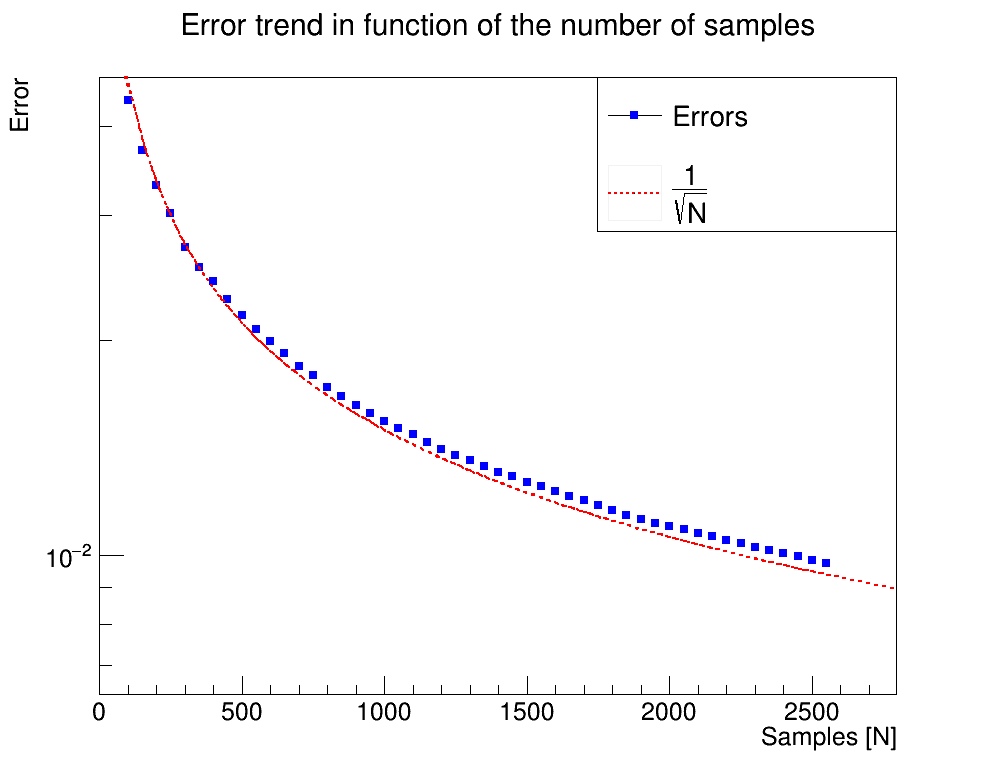
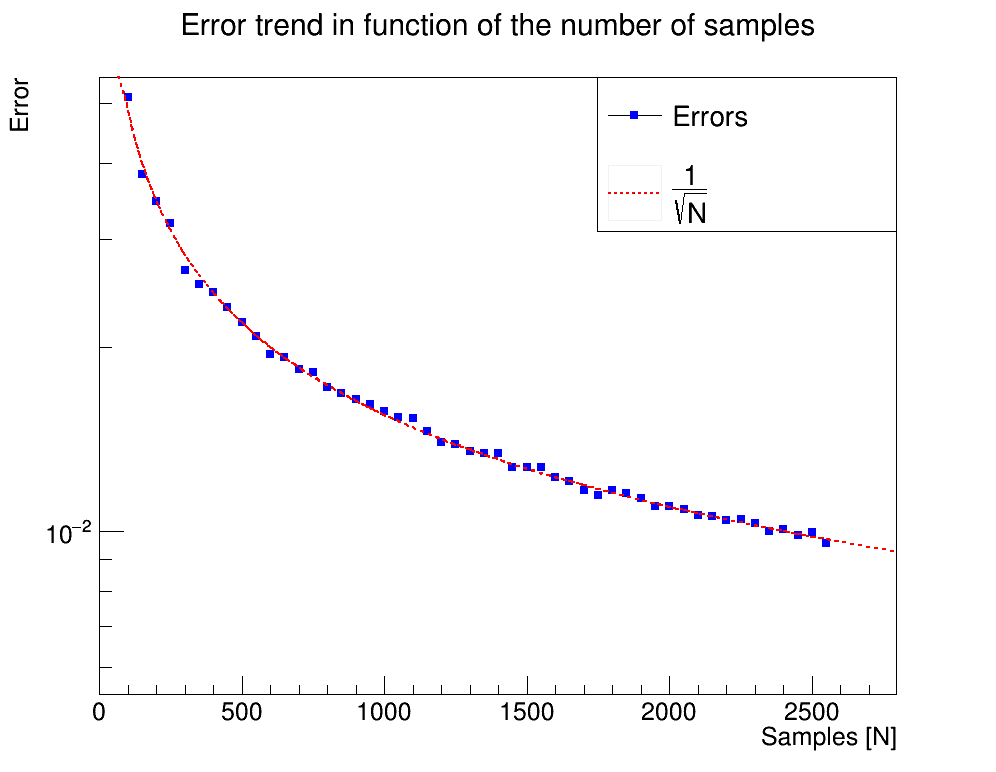
fine

diff --git a/es5/results.cpp b/es5/results.cpp
@@ -1,3 +1,5 @@
+//c++ results.cpp `root-config --libs --glibs --cflags` -o res
+
 #include <iostream>
 #include <cmath>
 #include "TH1F.h"
@@ -9,11 +11,11 @@
 
 int main(){
 
-    std::vector<double> estim = {1.71835, 1.71829913, 1.71828458, 1.71826148};
-    std::vector<double> estim_var = {0.00005, 0.00001013, 0.00000418, 0.00000880};
+    std::vector<double> estim = {1.71820764, 1.71826621, 1.71829322, 1.71828255};
+    std::vector<double> estim_var = {0.00011599, 0.00001030, 0.00000430, 0.00000888};
 
-    std::vector<double> var = {0.24202856, 0.00212058, 0.000531207, 0.00391324};
-    std::vector<double> err_var = {0.002296, 0.00002175, 0.00007748, 0.0005875};
+    std::vector<double> var = {0.24198802, 0.00211949, 0.00053135, 0.00391174};
+    std::vector<double> err_var = {0.00002338, 0.00000022, 0.00000008, 0.00000060};
     std::vector<double> number = {1,2,3,4};
 
     TLine* line = new TLine(1, exp(1)-1, 4, exp(1)-1);
@@ -23,18 +25,18 @@ int main(){
     TGraphErrors* g = new TGraphErrors(4, &number[0], &estim[0], 0, &estim_var[0]);
     g->SetMarkerStyle(21);
     g->SetMarkerColor(4);
-    g->SetTitle("MC estimators for different variance techniques");
+    g->SetTitle("MC estimators for different variance techniques xorshiro128p algorithm");
     g->GetXaxis()->SetTitle("Variance reduction technique");
     g->GetYaxis()->SetTitle("Estimator Value");
 
     TGraphErrors* g_var = new TGraphErrors(4, &number[0], &var[0], 0, &err_var[0]);
     g_var->SetMarkerStyle(21);
     g_var->SetMarkerColor(4);
-    g_var->SetTitle("MC estimator variance for different variance techniques");
+    g_var->SetTitle("MC estimator variance for different variance techniques xorshiro128p algorithm");
     g_var->GetXaxis()->SetTitle("Variance reduction technique");
     g_var->GetYaxis()->SetTitle("Variance Value");
 
-    TLegend* legend = new TLegend(.6, .5, .9, .9);
+    TLegend* legend = new TLegend(.5, .1, .9, .5);
     legend->AddEntry(line, "#int_{0}^{1} e^{x}dx", "l");
     legend->AddEntry(g, "#splitline{1: Crude Mc}{#splitline{2: Stratified}{#splitline{3: Importance (x+1)^{1.5}}{4: Antithetic}}}");
 
@@ -44,12 +46,12 @@ int main(){
     line->Draw("same");
     legend->Draw();
     c->Draw();
-    c->SaveAs("./Graphs/final_est_comp.png");
+    c->SaveAs("./Graphs/final_est_comp_xor.png");
 
     c->SetLogy();
     g_var->Draw("AP");
     c->Draw();
-    c->SaveAs("./Graphs/final_var_comp.png");
+    c->SaveAs("./Graphs/final_var_comp_xor.png");
 
     return 0;
 }

diff --git a/es5/compute_and.cpp b/es5/compute_and.cpp
@@ -1,11 +1,15 @@
+//c++ compute_and.cpp `root-config --libs --glibs --cflags` -o andamento
+
 #include <iostream>
 #include "TH1F.h"
 #include "TGraphErrors.h"
 #include "TCanvas.h"
 #include "TRandom3.h"
+#include "TRandomGen.h"
 #include "TLine.h"
 #include "TF1.h"
 #include "TLegend.h"
+#include "xorshiro.h"
 
 int main(){
 
@@ -14,14 +18,15 @@ int main(){
     std::vector<double> deviazione;
     std::vector<double> error;
     std::vector<double> sam;
-
+    
+    xorshiro gen;
+    
     for(int i = 0; i < 50; i++){
-        TRandom3* gen = new TRandom3();
 
         double S_n = 0;
         double Error = 0;
         for(int j = 0; j < samples; j++){
-            double x = gen->Uniform(0,1);
+            double x = gen.rand(0,1);
             S_n += exp(x);
             Error += pow(exp(x), 2);
         }
@@ -90,14 +95,14 @@ int main(){
     
     c->Update();
     c->Draw();
-    c->SaveAs("Error_trendtr.png");
+    c->SaveAs("./Error_trendtr.png");
 
     TCanvas*c1 = new TCanvas("c1", "c1", 1000,1000,1000,800);
     g->Draw("AP");
     real_val->Draw();
     legend1->Draw();
     c1->Draw();
-    c1->SaveAs("Estimator_trendtr.png");
+    c1->SaveAs("./Estimator_trendtr.png");
 
 
 

diff --git a/es5/Monte_Carlo/xorshiro.cpp b/es5/Monte_Carlo/xorshiro.cpp
@@ -1,0 +1,48 @@
+#include "xorshiro.h"
+#include "prng.h"
+#include <cmath>
+#include <climits>
+
+
+xorshiro::xorshiro(){
+
+    a = 53;
+    b = 22;
+    c = 41;
+
+    s[0] = rnd.randInt();
+    s[1] = rnd.randInt();
+
+   }
+
+xorshiro::~xorshiro(){}
+
+
+randtype xorshiro::rotl(const randtype x, int k){
+
+    return (x << k) | (x >> (64 - k ));
+
+}
+
+randtype xorshiro::xorshiro128p(){
+
+    const randtype s0 = s[0];
+    randtype s1 = s[1]; //not constant, must be modificable var
+
+    const randtype sum = s0 + s1;
+
+    s1 ^= s0; //that's why s1 is not a const value.
+
+    //rotation
+    s[0] = rotl(s0,a) ^ s1 ^ (s1 << b);
+    s[1] = rotl(s1,c);
+
+    return sum;
+
+}
+
+double xorshiro::rand(double min, double max){
+
+    return (double)(max-min) * ((double) xorshiro128p())
+            / (double)(ULLONG_MAX) + min;
+}

diff --git a/es5/xorshiro.cpp b/es5/xorshiro.cpp
@@ -1,0 +1,48 @@
+#include "xorshiro.h"
+#include "prng.h"
+#include <cmath>
+#include <climits>
+
+
+xorshiro::xorshiro(){
+
+    a = 53;
+    b = 22;
+    c = 41;
+
+    s[0] = rnd.randInt();
+    s[1] = rnd.randInt();
+
+   }
+
+xorshiro::~xorshiro(){}
+
+
+randtype xorshiro::rotl(const randtype x, int k){
+
+    return (x << k) | (x >> (64 - k ));
+
+}
+
+randtype xorshiro::xorshiro128p(){
+
+    const randtype s0 = s[0];
+    randtype s1 = s[1]; //not constant, must be modificable var
+
+    const randtype sum = s0 + s1;
+
+    s1 ^= s0; //that's why s1 is not a const value.
+
+    //rotation
+    s[0] = rotl(s0,a) ^ s1 ^ (s1 << b);
+    s[1] = rotl(s1,c);
+
+    return sum;
+
+}
+
+double xorshiro::rand(double min, double max){
+
+    return (double)(max-min) * ((double) xorshiro128p())
+            / (double)(ULLONG_MAX) + min;
+}

diff --git a/es5/Monte_Carlo/xorshiro.h b/es5/Monte_Carlo/xorshiro.h
@@ -1,0 +1,37 @@
+#ifndef XOROSHIRO_
+#define XOROSHIRO_
+
+#include "prng.h"
+
+typedef long long unsigned int randtype;
+
+class xorshiro
+{
+private:
+
+    prng rnd;
+    int a;
+    int b;
+    int c;
+    randtype s[2];
+    
+
+
+public:
+    xorshiro();
+    ~xorshiro();
+
+    randtype rotl(const randtype, int k);
+    randtype xorshiro128p();
+
+    double rand(double min = 0., double max = 1.);   
+
+    double landau(double x, double mu = 0., double sigma = 1.);
+    double landau_tc(double mu =0, double sigma = 1,
+                          double xmin = 0, double xmax = 1,
+                          double ymin = 0, double ymax = 0.5); 
+
+
+};
+
+#endif //XOROSHIRO_

diff --git a/es5/xorshiro.h b/es5/xorshiro.h
@@ -1,0 +1,37 @@
+#ifndef XOROSHIRO_
+#define XOROSHIRO_
+
+#include "prng.h"
+
+typedef long long unsigned int randtype;
+
+class xorshiro
+{
+private:
+
+    prng rnd;
+    int a;
+    int b;
+    int c;
+    randtype s[2];
+    
+
+
+public:
+    xorshiro();
+    ~xorshiro();
+
+    randtype rotl(const randtype, int k);
+    randtype xorshiro128p();
+
+    double rand(double min = 0., double max = 1.);   
+
+    double landau(double x, double mu = 0., double sigma = 1.);
+    double landau_tc(double mu =0, double sigma = 1,
+                          double xmin = 0, double xmax = 1,
+                          double ymin = 0, double ymax = 0.5); 
+
+
+};
+
+#endif //XOROSHIRO_

diff --git a/es5/Monte_Carlo/prng.h b/es5/Monte_Carlo/prng.h
@@ -1,0 +1,23 @@
+#ifndef PRNG_H
+#define PRNG_H
+
+//definisco la variabile randtype. 
+//unsigned (solo 0 o var positive), long long -> 64bit di memoria.
+typedef unsigned long long int randtype;
+
+class prng{
+
+    private:
+        randtype a;
+        randtype c;
+        randtype x;
+
+    public:
+        prng(); //constructor
+        ~prng(); 
+        
+        randtype randInt(); //numero casuale
+        double rand(double min=0., double max =1.); //numero casuale tra 0 e 1
+};
+
+#endif

diff --git a/es5/prng.h b/es5/prng.h
@@ -1,0 +1,23 @@
+#ifndef PRNG_H
+#define PRNG_H
+
+//definisco la variabile randtype. 
+//unsigned (solo 0 o var positive), long long -> 64bit di memoria.
+typedef unsigned long long int randtype;
+
+class prng{
+
+    private:
+        randtype a;
+        randtype c;
+        randtype x;
+
+    public:
+        prng(); //constructor
+        ~prng(); 
+        
+        randtype randInt(); //numero casuale
+        double rand(double min=0., double max =1.); //numero casuale tra 0 e 1
+};
+
+#endif

diff --git a/es5/Monte_Carlo/prng.cpp b/es5/Monte_Carlo/prng.cpp
@@ -1,0 +1,29 @@
+#include "prng.h"
+#include <climits>
+#include <stdio.h>
+#include <stdlib.h>
+#include <time.h>
+
+
+//Constructor 
+
+prng::prng(){
+        a = 6364136223846793005U;
+        c = 1442695040888963407U;
+        x = 1.;}
+
+
+prng::~prng(){}
+randtype prng::randInt(){
+    x = (a * x + c);
+    return x;
+}
+
+double prng::rand(double min, double max){
+
+    return (double)(max-min) * ((double) randInt()) /
+                ((double) ULLONG_MAX ) + min;
+
+ }
+
+

diff --git a/es5/prng.cpp b/es5/prng.cpp
@@ -1,0 +1,29 @@
+#include "prng.h"
+#include <climits>
+#include <stdio.h>
+#include <stdlib.h>
+#include <time.h>
+
+
+//Constructor 
+
+prng::prng(){
+        a = 6364136223846793005U;
+        c = 1442695040888963407U;
+        x = 1.;}
+
+
+prng::~prng(){}
+randtype prng::randInt(){
+    x = (a * x + c);
+    return x;
+}
+
+double prng::rand(double min, double max){
+
+    return (double)(max-min) * ((double) randInt()) /
+                ((double) ULLONG_MAX ) + min;
+
+ }
+
+
